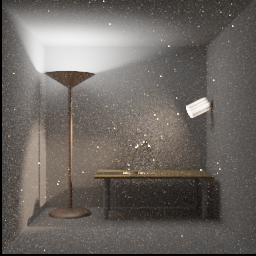
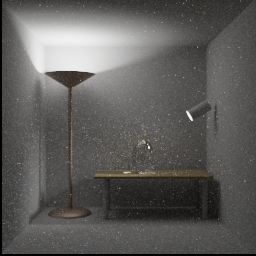
modify bdpt. update gallery

diff --git a/src/integrators/bidirectional.cpp b/src/integrators/bidirectional.cpp
@@ -17,7 +17,7 @@ private:
         cam_isc.normal = glm::normalize(Vec3f{scene->sensor->to_world * Vec4f{0, 0, 1, 0}});
         path_iscs.push_back(cam_isc);
         // TODO: make sure this doesn't fail anything
-        path_betas.push_back(Vec3f{0});
+        path_betas.push_back(Vec3f{1});
         path_probs.push_back(1.0);
 
         Ray cur_ray{ray};
@@ -138,9 +138,10 @@ private:
                        const std::vector<Intersection> &cam_iscs, const std::vector<Intersection> &light_iscs,
                        const std::vector<Vec3f> &cam_betas, const std::vector<Vec3f> &light_betas,
                        const std::vector<Float> &cam_probs, const std::vector<Float> &light_probs,
-                       int s, int t, Float &mis_weight) const {
+                       int s, int t, Float &mis_weight, Vec2f &p_new) const {
 
         mis_weight = 0;
+        p_new = Vec2f{-1};
         int cam_idx = t - 1;
         int light_idx = s - 1;
         
@@ -151,24 +152,41 @@ private:
         Float dist = glm::length(light_isc.position - cam_isc.position);
 
         // Check for delta bsdf
-        if (cam_isc.shape->bsdf->has_flag(BSDFFlags::Delta) || light_isc.shape->bsdf->has_flag(BSDFFlags::Delta))
-            return Vec3f{0};
+        if ((cam_isc.shape && cam_isc.shape->bsdf->has_flag(BSDFFlags::Delta)) ||
+            light_isc.shape->bsdf->has_flag(BSDFFlags::Delta))
+                return Vec3f{0};
         // Check for visibility
         Intersection tmp_isc;
         bool is_occluded = scene->ray_intersect(Ray{cam_isc.position + sign(glm::dot(cam_isc.normal, dirn)) * Epsilon * cam_isc.normal , dirn, 1e-2, dist - 1e-2f, true},
                                                 tmp_isc);
         if (is_occluded)
             return Vec3f{0};
-        // if s==1 check for correct orientation
+        // check for correct orientation of area light
         if (s == 1 && glm::dot(-dirn, light_isc.normal) <= 0)
             return Vec3f{0};
-        if (!cam_isc.shape->bsdf->has_flag(BSDFFlags::TwoSided) && glm::dot(dirn, cam_isc.normal) <= 0.0)
+        if (cam_isc.shape && !cam_isc.shape->bsdf->has_flag(BSDFFlags::TwoSided) && glm::dot(dirn, cam_isc.normal) <= 0.0)
             return Vec3f{0};
         if (light_isc.shape && !light_isc.shape->bsdf->has_flag(BSDFFlags::TwoSided) && glm::dot(-dirn, light_isc.normal) <= 0.0)
             return Vec3f{0};
+        // check if the connection is inside the view spectrum
+        Float unused;
+        Vec2f unused2; Vec3f unused3;
+        if (t == 1) {
+            if(!scene->sensor->worldToIplane(dirn, unused2, unused3))
+                return Vec3f{0};
+        }
         
         // compute the unweighted contribution
-        Vec3f cam_bsdfval = cam_iscs.at(cam_idx).shape->bsdf->eval(cam_isc, worldToLocal(dirn, cam_isc.normal));
+        Vec3f cam_bsdfval;
+        if (t == 1) {
+            Float pdf_we;
+            scene->sensor->pdf_We(dirn, unused, pdf_we);
+            if (pdf_we == 0)
+                return Vec3f{0};
+            cam_bsdfval = scene->sensor->We(dirn) / pdf_we ;  // TODO: should I divide by its pdf???
+        } else {
+            cam_bsdfval = cam_iscs.at(cam_idx).shape->bsdf->eval(cam_isc, worldToLocal(dirn, cam_isc.normal));
+        }
         Vec3f light_bsdfval = s != 1 ?
                                 light_iscs.at(light_idx).shape->bsdf->eval(light_isc, worldToLocal(-dirn, light_isc.normal))
                               : Vec3f{std::abs(glm::dot(light_isc.normal, dirn))};
@@ -192,6 +210,8 @@ private:
 
         std::vector<Float> other_tech_probs{};
         for (int i = s+1; i <= s+t-2; i++) {
+            // TODO: handle i=s+t-1
+            
             Intersection prev_isc = (i == s+1) ? light_isc : cam_iscs.at(cam_idx - (i - (s+2)));
             Intersection cur_isc  = cam_iscs.at(cam_idx - (i - (s+1)));
             Intersection next_isc = cam_iscs.at(cam_idx - (i - s));
@@ -204,8 +224,12 @@ private:
             Float p1 = i == 2 ? cosineHemispherePDF(worldToLocal(dirn1, light_iscs.at(0).normal), worldToLocal(dirn1, light_iscs.at(0).normal))
                      : prev_isc.shape->bsdf->has_flag(BSDFFlags::Delta) ? 1.0
                      : prev_isc.shape->bsdf->pdf(prev_isc, worldToLocal(dirn1, prev_isc.normal));
-            Float p2 = next_isc.shape->bsdf->has_flag(BSDFFlags::Delta) ? 1.0
-                     :next_isc.shape->bsdf->pdf(next_isc, worldToLocal(dirn2, next_isc.normal));
+            Float p2;
+            if (i == s+t-1)
+                scene->sensor->pdf_We(dirn2, unused, p2);
+            else
+                p2 = next_isc.shape->bsdf->has_flag(BSDFFlags::Delta) ? 1.0
+                    : next_isc.shape->bsdf->pdf(next_isc, worldToLocal(dirn2, next_isc.normal));
             Float cos1 = std::abs(glm::dot(cur_isc.normal, dirn1));
             Float cos2 = std::abs(glm::dot(cur_isc.normal, dirn2));
             Float prev_prob = (i == s+1) ? p_s : other_tech_probs.at(other_tech_probs.size()-1);
@@ -250,8 +274,13 @@ private:
             Float p1 = i == 1 ? cosineHemispherePDF(worldToLocal(dirn1, light_iscs.at(0).normal), worldToLocal(dirn1, light_iscs.at(0).normal))
                      : prev_isc.shape->bsdf->has_flag(BSDFFlags::Delta) ? 1.0
                      : prev_isc.shape->bsdf->pdf(prev_isc, worldToLocal(dirn1, prev_isc.normal));
-            Float p2 = next_isc.shape->bsdf->has_flag(BSDFFlags::Delta) ? 1.0
-                     : next_isc.shape->bsdf->pdf(next_isc, worldToLocal(dirn2, next_isc.normal));
+            
+            Float p2;
+            if (i == s-1 && t == 1)
+                scene->sensor->pdf_We(dirn2, unused, p2);
+            else
+                p2 = next_isc.shape->bsdf->has_flag(BSDFFlags::Delta) ? 1.0
+                    : next_isc.shape->bsdf->pdf(next_isc, worldToLocal(dirn2, next_isc.normal));
             Float cos1 = std::abs(glm::dot(cur_isc.normal, dirn1));
             Float cos2 = std::abs(glm::dot(cur_isc.normal, dirn2));
             Float next_prob = (i == s-1) ? p_s : other_tech_probs.at(other_tech_probs.size()-1);
@@ -298,9 +327,10 @@ private:
         if (!check_valid(mis_weight)) {
             std::cout << "\ninvalid mis_weight: " << mis_weight << ". p_s: " << p_s << "\n";
             exit(EXIT_FAILURE);
-            // mis_weight = 1.0;
         }
         
+        if (t == 1)
+            scene->sensor->worldToIplane(dirn, p_new, unused3);
         return L;
     }
     
@@ -335,11 +365,15 @@ public:
                 if (k > max_depth)
                     continue;
                 Float mis_weight;
+                Vec2f p_new;
                 Vec3f contrib = connect_bdpt(scene, cam_path_iscs, light_path_iscs,
                                              cam_path_betas, light_path_betas,
                                              cam_path_probs, light_path_probs,
-                                             s, t, mis_weight);
-                L += contrib * mis_weight;
+                                             s, t, mis_weight, p_new);
+                if (p_new.x < 0 || p_new.y < 0)
+                    L += contrib * mis_weight;
+                else
+                    scene->sensor->film.commit_splat(contrib * mis_weight / (Float)(scene->sensor->sampler.spp) , p_new);
             }
         }
         return L;

diff --git a/README.md b/README.md
@@ -98,27 +98,37 @@ Below are some images rendered with PacificRenderer. The scene files are mostly 
 |--------------------------|----------------------------|----------------|
 | ![matpreview-roughconductor](gallery/matpreview-roughconductor.png) | ![matpreview-roughdielectric](gallery/matpreview-roughdielectric.png) | ![thindielectric](gallery/thindielectric.png) |
 
-### Cars
+### Integrators comparison
+
+| path-trace(spp=32) | particle-trace(spp=32) | bidir-path-trace(spp=32) |
+|-----|------|-----|
+| ![pathtrace32](gallery/cornell-box-pathtrace-spp32.png) | ![ptrace32](gallery/cornell-box-ptrace-spp32.png) | ![bidir32](gallery/cornell-box-bidir-spp32.png) |
+
+| path-trace(spp=2048) | particle-trace(spp=2048) |
+|----------------------|--------------------------|
+| ![pathtrace2048](gallery/veach-ajar-pathtrace-spp2048.png) | ![ptrace2048](gallery/veach-ajar-ptrace-spp2048.png) |
+
+### Misc.
 
 | car | car2 |
 |-----|------|
 | ![car](gallery/car.png) | ![car2](gallery/car2.png) |
 
-### Veach Scenes
+| veach-ajar | glass-of-water |
+|------------|----------------|
+| ![veach-ajar](gallery/veach-ajar.png) | ![glass-of-water](gallery/glass-of-water.png) |
 
-| veach-ajar | veach-bidir | veach-mis |
-|------------|------------|-----------|
-| ![veach-ajar](gallery/veach-ajar.png) | ![veach-bidir](gallery/veach-bidir.png) | ![veach-mis](gallery/veach-mis.png) |
+| lamp | lego-bulldozer | stanford-bunny-dielectric |
+|------|---------------|---------------------------|
+| ![lamp](gallery/lamp.png) | ![lego-bulldozer](gallery/lego-bulldozer.png) | ![stanford-bunny-dielectric](gallery/stanford-bunny-dielectric.png) |
 
-### Misc.
+| veach-mis | teapot |
+|---------------|--------|
+| ![veach-mis](gallery/veach-mis.png) | ![teapot](gallery/teapot.png) |
 
-| glass-of-water | lamp | lego-bulldozer | stanford-bunny-dielectric |
-|----------------|------|---------------|---------------------------|
-| ![glass-of-water](gallery/glass-of-water.png) | ![lamp](gallery/lamp.png) | ![lego-bulldozer](gallery/lego-bulldozer.png) | ![stanford-bunny-dielectric](gallery/stanford-bunny-dielectric.png) |
-
-| stanford-bunny-diffuse | stanford-dragon | teapot |
-|-----------------------|-----------------|--------|
-| ![stanford-bunny-diffuse](gallery/stanford-bunny-diffuse.png) | ![stanford-dragon](gallery/stanford-dragon.png) | ![teapot](gallery/teapot.png) |
+| stanford-bunny-diffuse |                stanford-dragon                  |
+| ---------------------- |-------------------------------------------------|
+| ![stanford-bunny-diffuse](gallery/stanford-bunny-diffuse.png) | ![stanford-dragon](gallery/stanford-dragon.png) |
 
 ---
 

diff --git a/TODO.md b/TODO.md
@@ -12,6 +12,7 @@
 - add adaptive position based cosine weighted sampling
 - possible bug in BVH build (AABB of flat surfaces might be too thin)
 - bug in Beckmann distribution. sometimes returning nan
+- bidir s=0 & t=1 strategies. Also its performance is bad.
 
 ## Others
 
